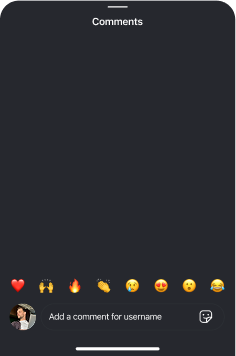
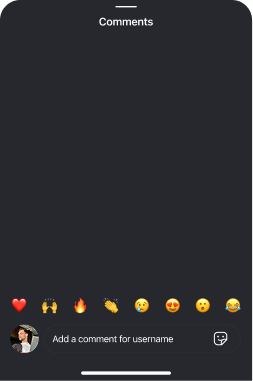
fix: Final edition

diff --git a/create.html b/create.html
@@ -580,14 +580,14 @@
 
                   <div class="igg-like">
                     <svg
-                      width="10"
+                      width="11"
                       height="10"
-                      viewBox="0 0 10 10"
+                      viewBox="0 0 11 10"
                       fill="none"
                       xmlns="http://www.w3.org/2000/svg"
                     >
                       <path
-                        d="M5.54002 1.69821C6.5577 0.680521 8.13618 0.727855 9.1826 1.69821L9.25584 1.76852C10.2734 2.78613 10.0248 4.82067 9.05467 5.86715L8.92674 6.00192L8.78416 6.14743C8.23661 6.69726 7.39726 7.44968 6.26658 8.40524L5.62107 8.94723C5.39831 9.13259 5.07395 9.12959 4.85447 8.94039L4.05662 8.24801L3.34764 7.62399C2.50396 6.87586 1.87012 6.29002 1.44724 5.86715C0.405435 4.8252 0.205174 2.8104 1.24705 1.76852C2.28898 0.726875 3.95034 0.656385 4.99217 1.69821L5.25096 2.00094L5.54002 1.69821ZM8.77928 2.13278C7.94343 1.35794 6.73084 1.34747 5.96971 2.10836L5.22752 2.88473L4.5576 2.1025C3.76443 1.32629 2.48983 1.3646 1.66599 2.18844C0.900954 2.95364 1.00889 4.58993 1.86717 5.44821L2.02049 5.60055C2.45404 6.02375 3.07329 6.59134 3.87596 7.30075L4.44627 7.80075L5.24217 8.49118L5.88377 7.95309L6.34568 7.56051C7.23259 6.80048 7.90546 6.18986 8.35935 5.73434L8.49607 5.59469L8.6201 5.46481C9.44239 4.57804 9.56384 2.91554 8.84471 2.19625L8.77928 2.13278Z"
+                        d="M5.77177 1.20538C6.86229 0.114871 8.55282 0.165596 9.67412 1.20538L9.75322 1.28058C10.8436 2.37099 10.577 4.55079 9.5374 5.67218L9.40068 5.81671L9.24834 5.97198C8.66161 6.56121 7.76198 7.36869 6.55009 8.39288L5.85771 8.97296C5.61892 9.17138 5.27149 9.16804 5.03642 8.96515L4.18193 8.22394L3.42216 7.55499C2.51811 6.75332 1.83916 6.12531 1.38603 5.67218C0.269651 4.55567 0.0547457 2.39702 1.17119 1.28058C2.28768 0.164326 4.06846 0.088983 5.18486 1.20538L5.4622 1.5296L5.77177 1.20538ZM9.24248 1.6712C8.3468 0.840632 7.04645 0.829375 6.23076 1.64484L5.43584 2.47687L4.71904 1.638C3.86916 0.806179 2.50324 0.848061 1.62041 1.73077C0.800496 2.55068 0.915506 4.30419 1.83525 5.22394L2.00029 5.38702C2.46485 5.84047 3.12869 6.44834 3.98857 7.20831L4.59892 7.74445L5.45146 8.48468L6.13994 7.90753L6.63408 7.48761C7.58451 6.67315 8.30589 6.01871 8.79228 5.53058L8.93877 5.38116L9.0706 5.24054C9.95162 4.29042 10.0831 2.51046 9.31279 1.73956L9.24248 1.6712Z"
                         fill="white"
                       />
                     </svg>

diff --git a/styles.css b/styles.css
@@ -2140,6 +2140,7 @@ input[type='radio'] {
   justify-content: space-between;
   align-items: center;
   padding: 0 10px 0 0;
+  margin-bottom: -21px;
 }
 
 /* Phone styles */
@@ -2149,15 +2150,28 @@ input[type='radio'] {
   background-size: auto;
   background-position: top;
   display: flex;
-  justify-content: end;
+  /* justify-content: end; */
   align-items: end;
-  margin: 11px 0 0 9px;
+  margin: 12px 0 0 0;
   border-radius: 0 0 37px 37px;
-
+  /* 
   width: 100%;
-  max-width: 257px;
+  max-width: 257px; */
   aspect-ratio: 257 / 531;
   position: relative;
+
+  width: 275px;
+  /* height: 569px; */
+  min-height: 569px;
+  min-width: 275px;
+  padding: 0 12px 12px 12px;
+  justify-content: center;
+  /* margin: 0;
+  margin-top: 12px; */
+}
+
+.phone__screen__comments {
+  margin-bottom: -7px;
 }
 
 .phone__screen__dm {
@@ -2211,8 +2225,9 @@ input[type='radio'] {
   padding: 13px;
   position: absolute;
   z-index: 1;
-  top: 31%;
+  top: 35.3%;
   border: none;
+  left: 2%;
 }
 
 .ig-comment {
@@ -2234,7 +2249,7 @@ input[type='radio'] {
 span.ig-comment__username {
   font-family: var(--second-family);
   font-weight: 500;
-  font-size: 6px;
+  font-size: 7px;
   letter-spacing: -0.01em;
   color: #fff;
 }
@@ -2242,7 +2257,7 @@ span.ig-comment__username {
 span.ig-comment__time {
   font-family: var(--second-family);
   font-weight: 400;
-  font-size: 6px;
+  font-size: 7px;
   letter-spacing: -0.01em;
   color: rgba(255, 255, 255, 0.6);
 }
@@ -2250,7 +2265,7 @@ span.ig-comment__time {
 .ig-comment__actions a {
   font-family: var(--second-family);
   font-weight: 600;
-  font-size: 7px;
+  font-size: 8px;
   letter-spacing: -0.02em;
   color: rgba(255, 255, 255, 0.6);
 }
@@ -2259,17 +2274,18 @@ span.ig-comment__time {
   display: flex;
   align-items: start;
   justify-content: space-between;
-  gap: 10px;
+  gap: 7px;
 }
 
 .detect {
   top: 61px;
   left: 35px;
+  min-height: 10px;
+  font-family: var(--second-family);
   font-weight: 400;
-  font-size: 7px;
+  font-size: 8px;
   letter-spacing: -0.01em;
   color: #fff;
-  height: 6px;
 }
 
 .ig-with-img {
@@ -2280,6 +2296,10 @@ span.ig-comment__time {
   height: auto;
   min-height: 184px;
   width: 134px;
+}
+
+.igg-like {
+  margin: 9px 17px 0 0;
 }
 
 .ig-with-img img {

diff --git a/trigger.html b/trigger.html
@@ -365,14 +365,6 @@
               </button>
             </div>
 
-            <!-- Action App -->
-            <!-- <label class="trigger__label" for="action_app"
-              >Action app&#42;
-            </label>
-            <select id="action_app" name="action_app" class="trigger__select">
-              <option value="google_sheets">GoogleSheets</option>
-            </select> -->
-
             <div class="trigger__form-group">
               <div class="trigger__label">Action app &#42;</div>
 
